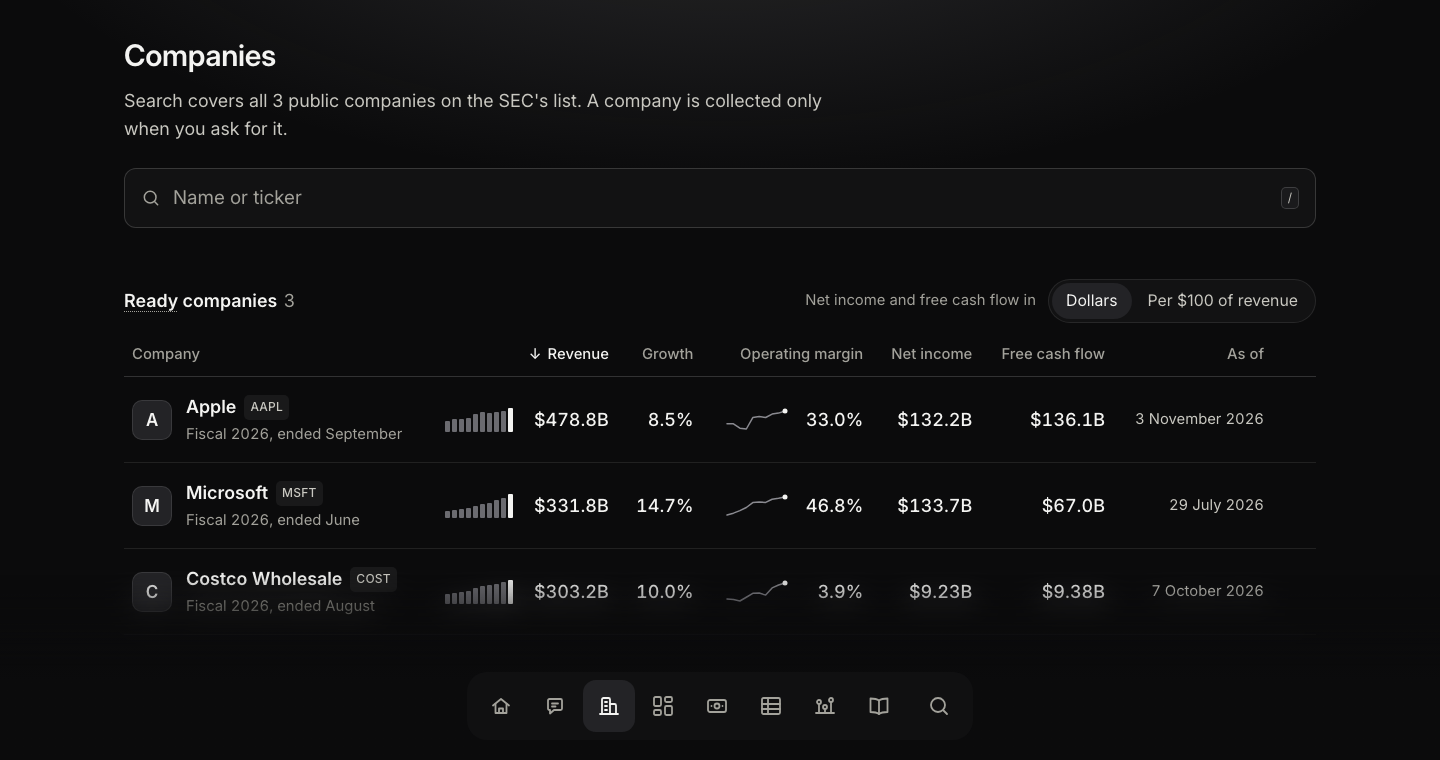
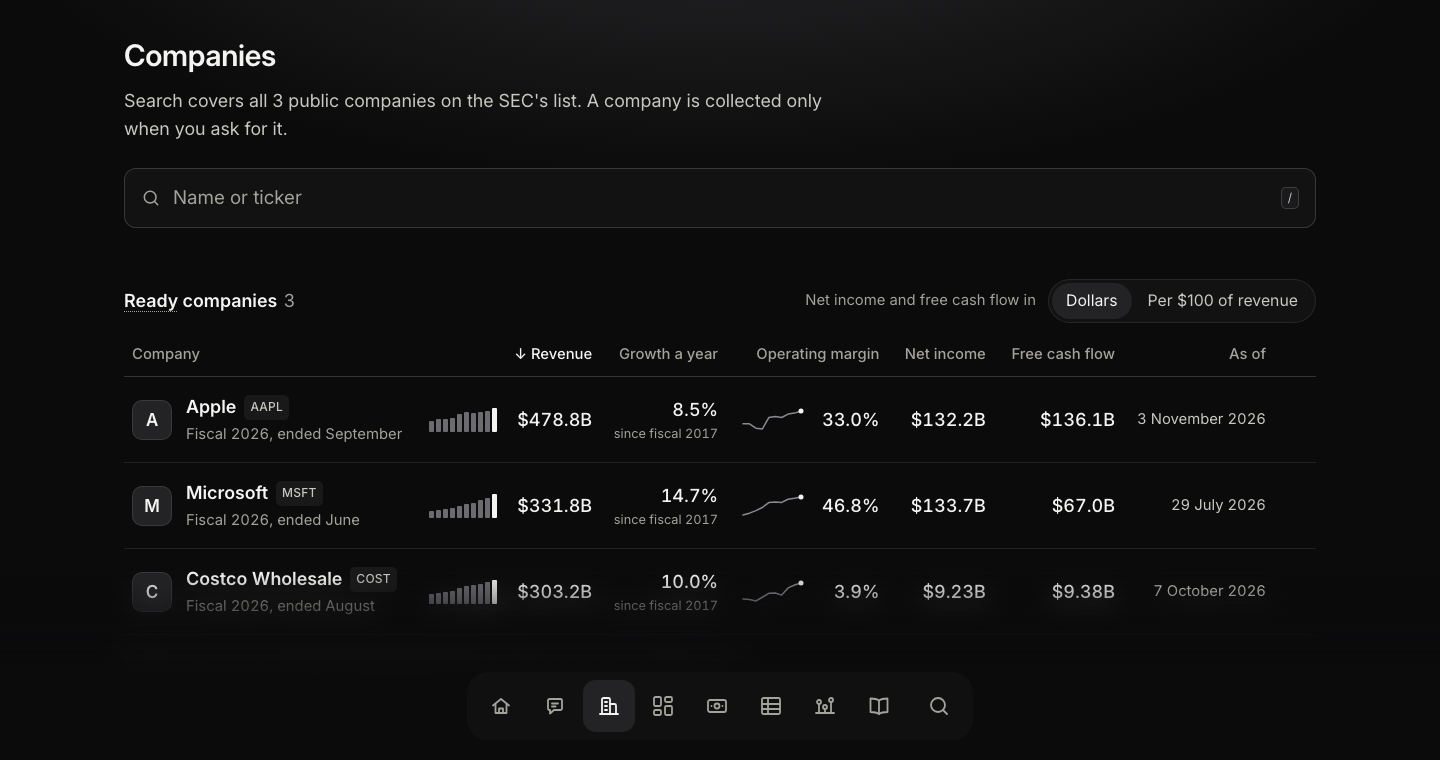
fix: label companies' growth as growth a year of revenue since its first fiscal year
The column read only "Growth", so a reader took it for last year's growth.
The heading now reads "Growth a year", each figure carries "since fiscal"
its first fiscal year, screen readers hear that it is revenue's compound
annual growth rate over ten fiscal years, a note under the table links that
term and says it is not the year-over-year change, and the empty cell names
the fiscal year that stops the rate.

The second line is 104 pixels wide, so cell padding drops from 12 to 10
pixels for the table to hold it on one line. Headings keep 14 pixels on the
left and the sort arrow sits 4 pixels from its label, so each arrow stays
clear of the heading beside it. The cards now start below a 1178 pixel
table, the narrowest that still holds every line.

diff --git a/src/ui/ready-table.tsx b/src/ui/ready-table.tsx
@@ -16,19 +16,24 @@ import {
   type Units,
   firstOrder,
   newestRevenue,
+  noGrowthReason,
   sortRows,
 } from "./ready-rows";
 import { RemoveDialog } from "./remove-company";
 import { Segmented } from "./segmented";
 import { Term } from "./term";
 
+const growthSpoken =
+  "Growth a year: revenue's compound annual growth rate from the first to the newest of ten fiscal years";
+
 const columns: ReadonlyArray<{
   readonly key: SortKey;
   readonly label: string;
+  readonly spoken?: string;
 }> = [
   { key: "name", label: "Company" },
   { key: "revenue", label: "Revenue" },
-  { key: "growth", label: "Growth" },
+  { key: "growth", label: "Growth a year", spoken: growthSpoken },
   { key: "margin", label: "Operating margin" },
   { key: "net", label: "Net income" },
   { key: "free", label: "Free cash flow" },
@@ -205,7 +210,7 @@ function ReadyRow({
   const name = plainName(company.name);
   const revenue = newestRevenue(summary);
   const margin = summary?.operatingMargin.at(-1) ?? null;
-  const growth = summary?.growth ?? null;
+  const rate = summary?.growth ?? null;
   const per = units === "per100";
   const amount = (value: number | null) =>
     value === null ? (
@@ -272,11 +277,17 @@ function ReadyRow({
         )}
       </td>
       <td>
-        <span className="cell-label">Growth</span>
-        {growth === null ? (
-          <NoFigure why="fewer than ten fiscal years to compare" />
+        <span className="cell-label">
+          <span aria-hidden="true">Growth a year</span>
+          <span className="visually-hidden">{growthSpoken}</span>
+        </span>
+        {summary === null || rate === null ? (
+          <NoFigure why={noGrowthReason(summary) ?? "not reported"} />
         ) : (
-          <span className="fig">{percent(growth)}</span>
+          <>
+            <span className="fig">{percent(rate)}</span>
+            <span className="fig-sub">since fiscal {summary.years[0]}</span>
+          </>
         )}
       </td>
       <td>
@@ -388,7 +399,14 @@ export function ReadyTable({
                   >
                     <button type="button" className="ready-sort" onClick={() => sortBy(column.key)}>
                       {column.key !== "name" && arrow}
-                      {column.label}
+                      {column.spoken === undefined ? (
+                        column.label
+                      ) : (
+                        <>
+                          <span aria-hidden="true">{column.label}</span>
+                          <span className="visually-hidden">{column.spoken}</span>
+                        </>
+                      )}
                       {column.key === "name" && arrow}
                     </button>
                   </th>
@@ -411,6 +429,14 @@ export function ReadyTable({
           </tbody>
         </table>
       </div>
+      <p className="mt-4 mb-0 max-w-[68ch] text-xs text-text-3">
+        Growth a year is the{" "}
+        <Term name="Compound annual growth rate">compound annual growth rate</Term> of revenue over
+        each company's ten newest fiscal years. It is not the{" "}
+        <Term name="Year-over-year change">year-over-year change</Term>. A dash under Growth a year
+        means the first of those fiscal years has no revenue reported, or revenue in the first or
+        newest fiscal year was $0 or less.
+      </p>
     </section>
   );
 }

diff --git a/screens/companies-table.spec.ts b/screens/companies-table.spec.ts
@@ -1,0 +1,43 @@
+import { expect, test } from "@playwright/test";
+
+const spoken =
+  "Growth a year: revenue's compound annual growth rate from the first to the newest of ten fiscal years";
+
+test("the growth column says it is revenue's growth a year since a fiscal year", async ({
+  page,
+}) => {
+  await page.goto("/companies", { waitUntil: "networkidle" });
+  const table = page.getByRole("table", { name: "Ready companies, newest fiscal year of each" });
+  const header = table.getByRole("columnheader", { name: spoken });
+  const visible = await header.getByRole("button").evaluate((button) =>
+    [...button.children]
+      .filter((child) => child.getAttribute("aria-hidden") === "true")
+      .filter((child) => !child.classList.contains("arrow"))
+      .map((child) => child.textContent)
+      .join(""),
+  );
+  expect(visible).toBe("Growth a year");
+
+  const apple = table.getByRole("row").filter({ hasText: "AAPL" });
+  await expect(apple.getByText("since fiscal 2017", { exact: true })).toBeVisible();
+  await expect(page.getByText(/It is not the\s+year-over-year change\./)).toBeVisible();
+});
+
+test("the table shows from 1226 pixels wide without spilling, and cards below", async ({
+  page,
+}) => {
+  await page.setViewportSize({ width: 1226, height: 900 });
+  await page.goto("/companies", { waitUntil: "networkidle" });
+  const table = page.getByRole("table", { name: "Ready companies, newest fiscal year of each" });
+  await expect(table.getByRole("columnheader", { name: spoken })).toBeVisible();
+  const spill = await table.evaluate(
+    (element) => element.scrollWidth - (element.parentElement?.clientWidth ?? 0),
+  );
+  expect(spill).toBeLessThanOrEqual(0);
+
+  await page.setViewportSize({ width: 1225, height: 900 });
+  await expect(table.getByRole("columnheader", { name: spoken })).toBeHidden();
+  const apple = table.getByRole("row").filter({ hasText: "AAPL" });
+  await expect(apple.getByText("Growth a year", { exact: true })).toBeVisible();
+  await expect(apple.getByText("since fiscal 2017", { exact: true })).toBeVisible();
+});

diff --git a/src/ui/ready-rows.test.ts b/src/ui/ready-rows.test.ts
@@ -1,6 +1,6 @@
 import { describe, expect, it } from "vitest";
 import type { CompanySummary, ListedCompany } from "../functions/companies";
-import { type Row, type TableView, sortRows } from "./ready-rows";
+import { type Row, type TableView, noGrowthReason, sortRows } from "./ready-rows";
 
 const row = (name: string, figures: Partial<CompanySummary> | null): Row => ({
   company: {
@@ -77,5 +77,48 @@ describe("the order of the ready companies", () => {
       "Large Stores",
       "No Figures",
     ]);
+  });
+});
+
+describe("why a company has no growth", () => {
+  const tenYears = (first: number | null, newest: number | null) =>
+    row("Ten Years", {
+      years: [2017, 2018, 2019, 2020, 2021, 2022, 2023, 2024, 2025, 2026],
+      revenue: [first, 10, 10, 10, 10, 10, 10, 10, 10, newest],
+    }).summary;
+
+  it.each([
+    { case: "no summary", summary: null, reason: "not reported" },
+    {
+      case: "a missing first fiscal year",
+      summary: tenYears(null, 20),
+      reason: "no revenue reported for fiscal 2017",
+    },
+    {
+      case: "a first fiscal year of $0 or less",
+      summary: tenYears(0, 20),
+      reason: "revenue in fiscal 2017 was $0 or less",
+    },
+    {
+      case: "no revenue in the newest fiscal year",
+      summary: tenYears(10, null),
+      reason: "no revenue reported for fiscal 2026",
+    },
+    {
+      case: "a newest fiscal year of $0",
+      summary: tenYears(10, 0),
+      reason: "revenue in fiscal 2026 was $0 or less",
+    },
+    {
+      case: "a newest fiscal year below $0",
+      summary: tenYears(10, -3),
+      reason: "revenue in fiscal 2026 was $0 or less",
+    },
+  ])("says why for $case", ({ summary, reason }) => {
+    expect(noGrowthReason(summary)).toBe(reason);
+  });
+
+  it("gives no reason when there is a rate", () => {
+    expect(noGrowthReason(tenYears(10, 20))).toBeNull();
   });
 });

diff --git a/src/styles/companies.css b/src/styles/companies.css
@@ -256,7 +256,7 @@
 
   /* Headings: one line each, on one baseline. */
   .ready-table thead th {
-    padding: 0 12px 10px;
+    padding: 0 10px 10px;
     border-bottom: 1px solid var(--color-hairline-strong);
     font-size: var(--text-xs);
     font-weight: 500;
@@ -264,6 +264,10 @@
     text-align: right;
     vertical-align: bottom;
     white-space: nowrap;
+  }
+
+  .ready-table thead th:not(:first-child) {
+    padding-left: 14px;
   }
 
   .ready-table thead th:first-child {
@@ -299,13 +303,13 @@
      every column under the pointer and end its own hover. */
   .ready-sort .arrow {
     position: absolute;
-    right: calc(100% + 6px);
+    right: calc(100% + 4px);
     visibility: hidden;
   }
 
   th:first-child > .ready-sort .arrow {
     right: auto;
-    left: calc(100% + 6px);
+    left: calc(100% + 4px);
   }
 
   [aria-sort] > .ready-sort .arrow {
@@ -330,7 +334,7 @@
 
   .ready-table tbody th,
   .ready-table tbody td {
-    padding: 16px 12px;
+    padding: 16px 10px;
     border-bottom: 1px solid var(--color-hairline);
     text-align: right;
     vertical-align: middle;
@@ -568,7 +572,7 @@
     color: var(--color-text-1);
   }
 
-  @container ready (max-width: 1159px) {
+  @container ready (max-width: 1177px) {
     .ready-table thead {
       display: none;
     }

diff --git a/src/ui/ready-rows.ts b/src/ui/ready-rows.ts
@@ -1,4 +1,5 @@
 import type { CompanySummary, ListedCompany } from "../functions/companies";
+import { noGrowth } from "../shared/company-summary";
 import { plainName } from "./logo-tile";
 
 export const sortKeys = ["name", "revenue", "growth", "margin", "net", "free", "asof"] as const;
@@ -26,6 +27,23 @@ export type Row = {
 };
 
 export const newestRevenue = (summary: CompanySummary | null) => summary?.revenue.at(-1) ?? null;
+
+export const noGrowthReason = (summary: CompanySummary | null) => {
+  if (summary === null) return "not reported";
+  const first = summary.years[0];
+  switch (noGrowth(summary.revenue[0] ?? null, newestRevenue(summary))) {
+    case "no-start":
+      return `no revenue reported for fiscal ${first}`;
+    case "no-end":
+      return `no revenue reported for fiscal ${summary.fiscalYear}`;
+    case "start-not-positive":
+      return `revenue in fiscal ${first} was $0 or less`;
+    case "end-not-positive":
+      return `revenue in fiscal ${summary.fiscalYear} was $0 or less`;
+    case null:
+      return null;
+  }
+};
 
 const sortValue = (row: Row, key: SortKey, units: Units): string | number | null => {
   const { company, summary } = row;

diff --git a/src/shared/company-summary.test.ts b/src/shared/company-summary.test.ts
@@ -49,4 +49,21 @@ describe("growth of revenue across ready companies", () => {
     ];
     expect(summarise(statements)?.growth).toBeNull();
   });
+
+  it.each([
+    { which: "the first has no statement", first: [], newest: 126 },
+    { which: "the first has zero revenue", first: [year(2017, amount(0))], newest: 126 },
+    { which: "the first has negative revenue", first: [year(2017, amount(-5))], newest: 126 },
+    { which: "the newest has zero revenue", first: [year(2017, amount(117))], newest: 0 },
+    { which: "the newest has negative revenue", first: [year(2017, amount(117))], newest: -5 },
+  ])("gives no growth when $which", ({ first, newest }) => {
+    const statements = [
+      ...first,
+      ...[2018, 2019, 2020, 2021, 2022, 2023, 2024, 2025].map((fiscalYear) =>
+        year(fiscalYear, amount(fiscalYear - 1900)),
+      ),
+      year(2026, amount(newest)),
+    ];
+    expect(summarise(statements)?.growth).toBeNull();
+  });
 });

diff --git a/src/shared/company-summary.ts b/src/shared/company-summary.ts
@@ -28,10 +28,23 @@ export type CompanySummary = {
   readonly freeCashFlow: number | null;
 };
 
+export type NoGrowth = "no-start" | "no-end" | "start-not-positive" | "end-not-positive";
+
+export const noGrowth = (start: number | null, end: number | null): NoGrowth | null =>
+  start === null
+    ? "no-start"
+    : end === null
+      ? "no-end"
+      : start <= 0
+        ? "start-not-positive"
+        : end <= 0
+          ? "end-not-positive"
+          : null;
+
 // The steady yearly rate that takes a number from its starting value to its
 // ending value. Without both ends, or across a loss, there is no such rate.
 export const compoundAnnualGrowthRate = (start: number | null, end: number | null, years: number) =>
-  start === null || end === null || start <= 0 || end <= 0
+  start === null || end === null || noGrowth(start, end) !== null
     ? null
     : (end / start) ** (1 / years) - 1;
 
